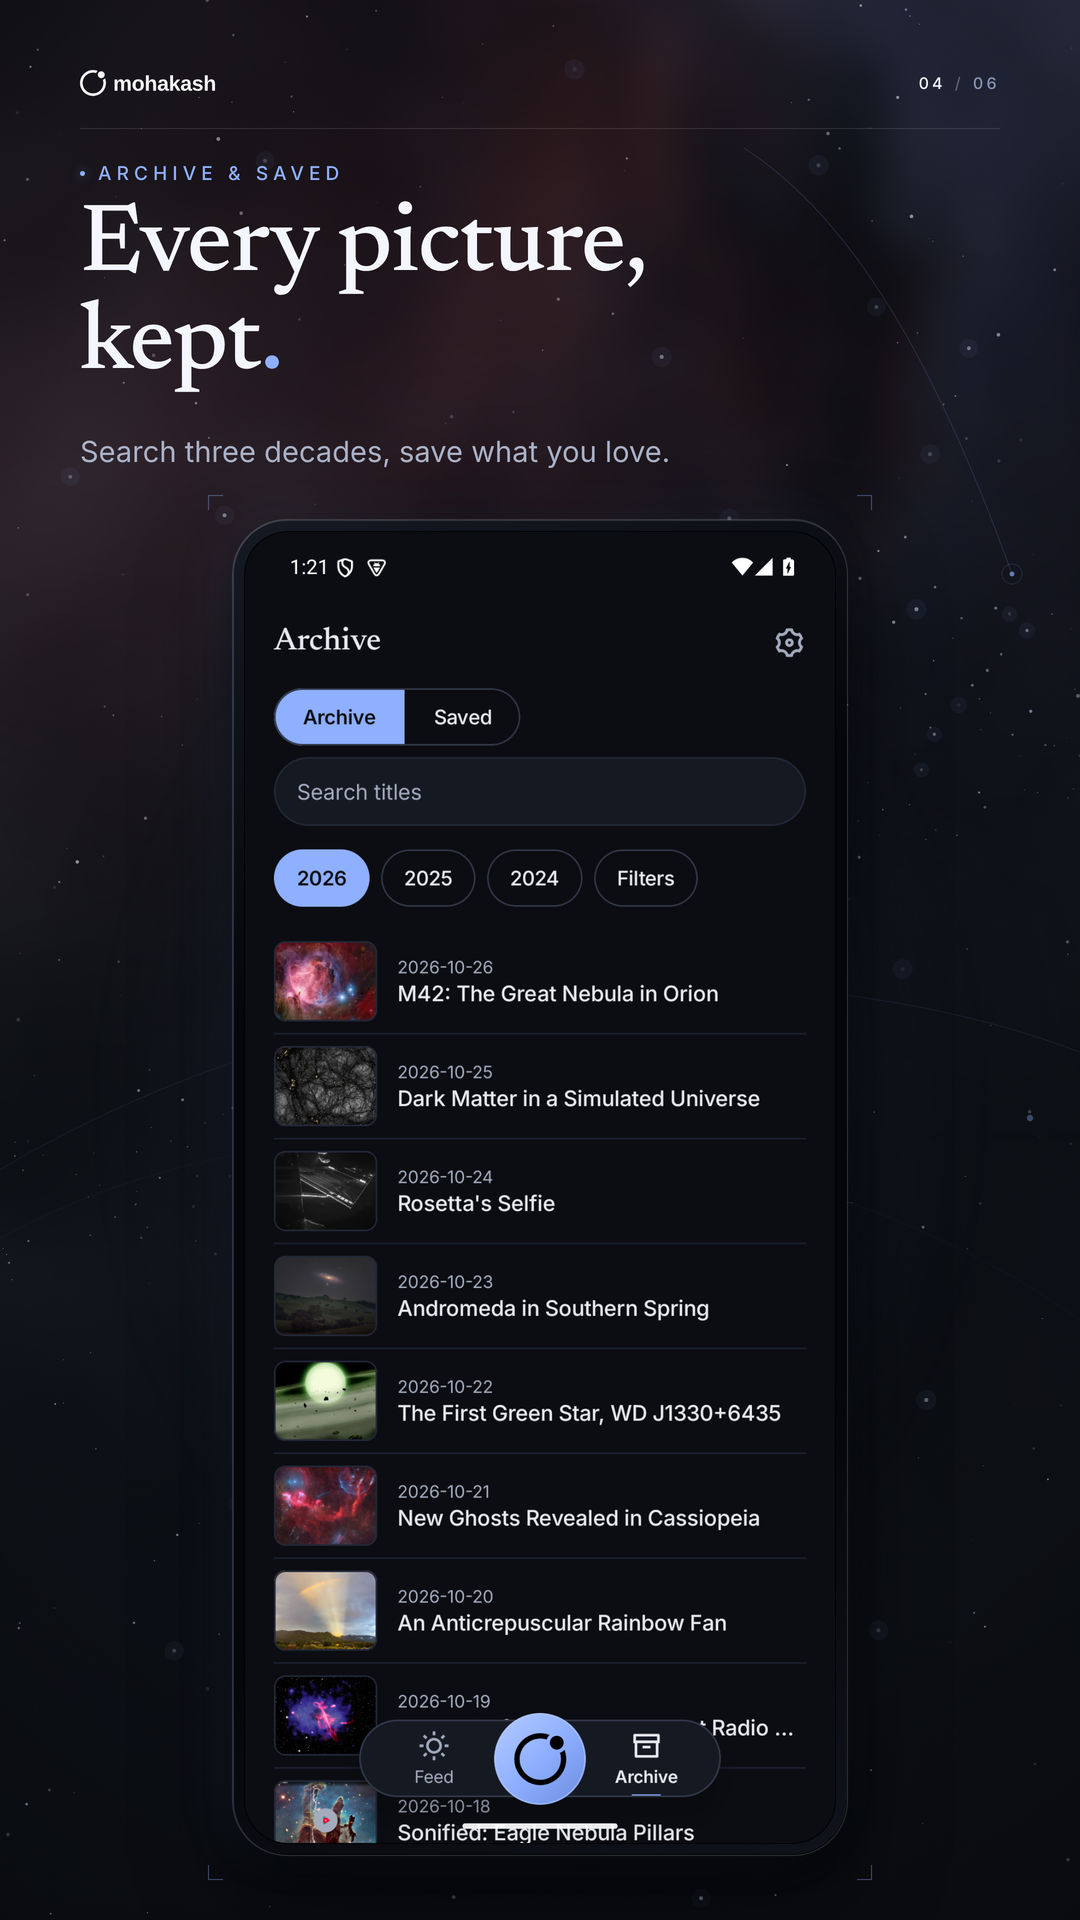
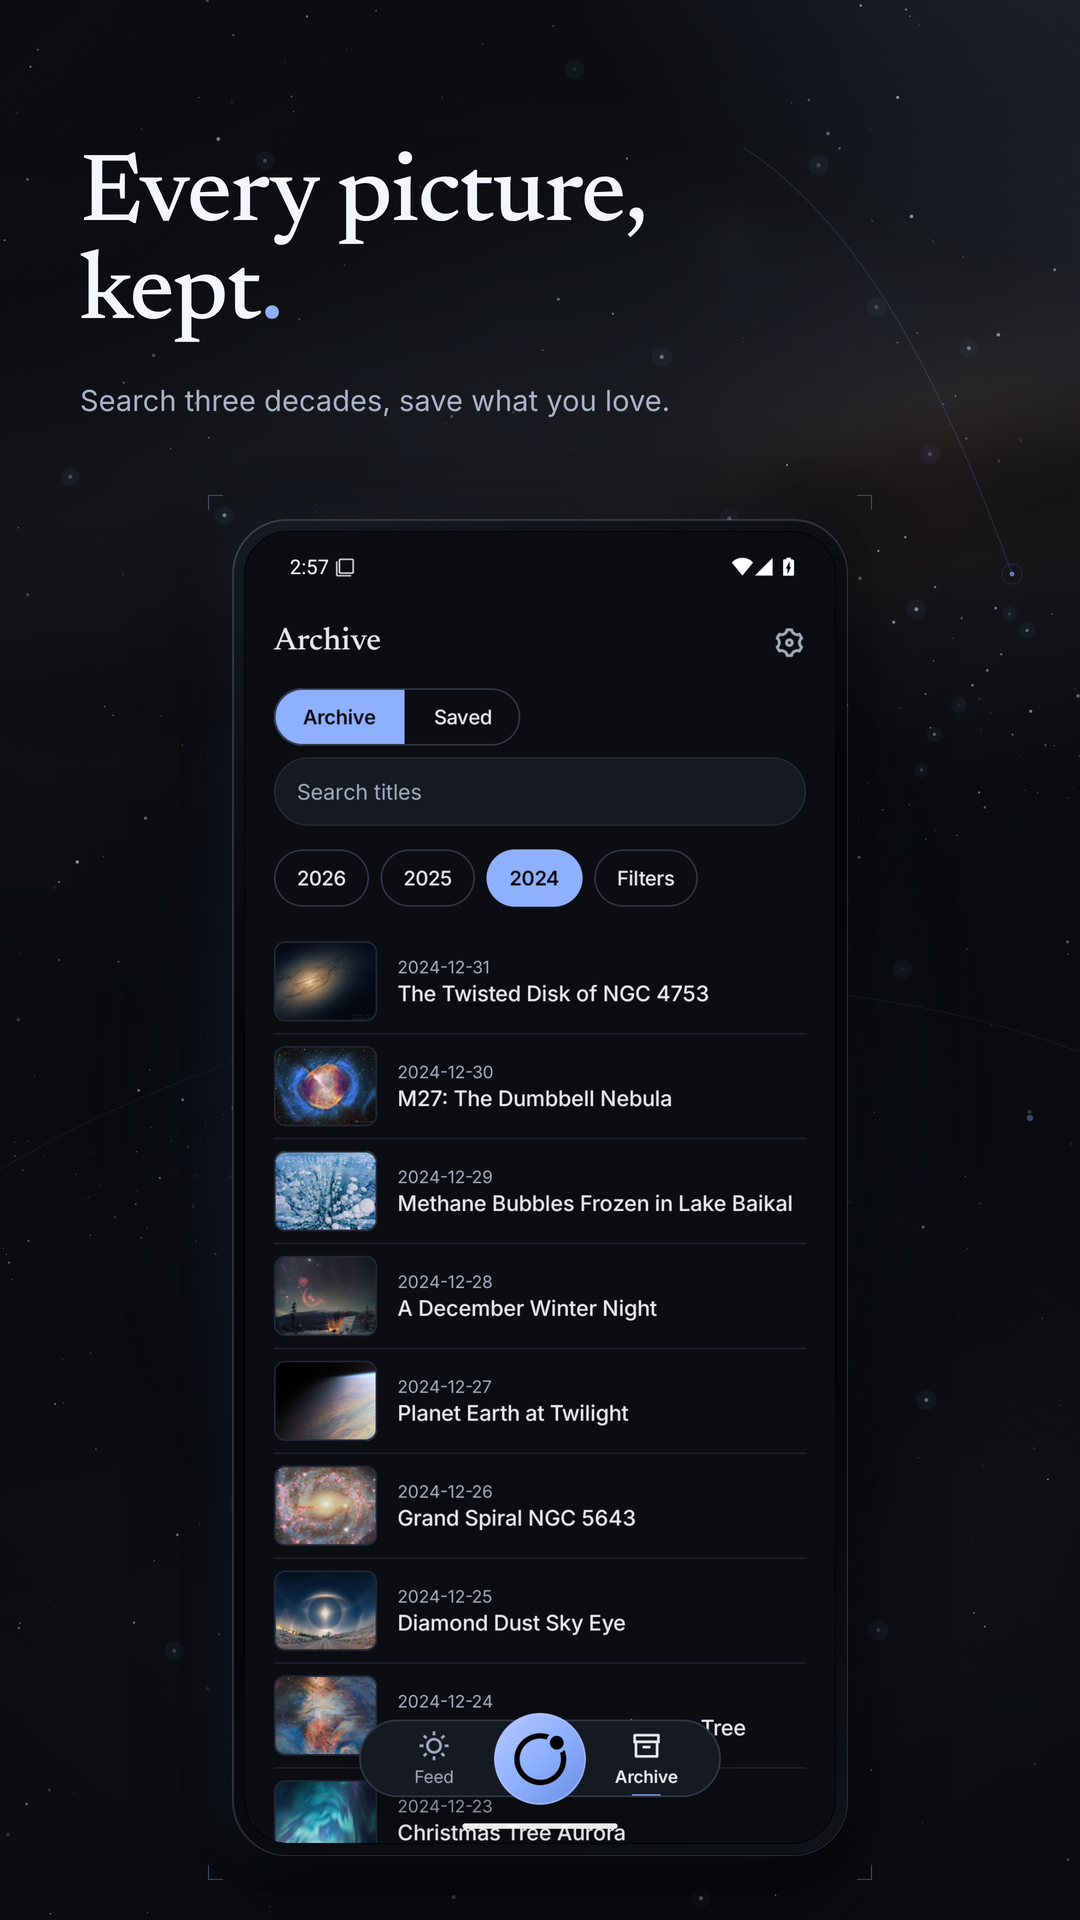
feat(store): refresh phone campaign with varied archive APODs

diff --git a/store-assets/README.md b/store-assets/README.md
@@ -9,14 +9,16 @@ and F-Droid consume:
 
 ## Campaign
 
-| # | Beat | Headline | Support |
-|---|------|----------|---------|
-| 01 | Daily feed | **The sky, every day.** | A new picture of the universe, each day. |
-| 02 | Live wallpaper | **Your wallpaper, alive.** | A genuine live wallpaper, updated with the day's picture. |
-| 03 | Random pick | **Let the universe choose.** | One tap opens a random picture from the archive. |
-| 04 | Archive & Saved | **Every picture, kept.** | Search three decades, save what you love. |
-| 05 | Full entry | **More than a pretty picture.** | Title, credit and explanation, on every entry. |
-| 06 | Languages | **In your language.** | The interface, in fourteen languages. |
+Campaign line: **“The sky, every day.”**
+
+| # | Beat | Headline | Support | Screen |
+|---|------|----------|---------|--------|
+| 01 | Daily feed | **The sky, every day.** | A new picture of the universe, each day. | *The Tail of the Hamburger Galaxy*, 8 May 2014 |
+| 02 | Live wallpaper | **Your wallpaper, alive.** | A live wallpaper that follows the day's picture. | first-run wallpaper screen, M42 preview |
+| 03 | Random pick | **Let the sky surprise you.** | One tap opens a random picture from the archive. | random picker over *Comet NEAT*, 6 Mar 2003 |
+| 04 | Archive | **Every picture, kept.** | Search three decades, save what you love. | Archive filtered to 2024 |
+| 05 | Full entry | **More than a pretty picture.** | The title, the credit, the whole explanation. | *Asperitas Clouds Over New Zealand*, 17 Aug 2025 |
+| 06 | Languages | **In your language.** | The interface, in fourteen languages. | Bengali UI on *Plato and the Lunar Alps*, 15 Jan 2026 |
 
 Feature graphic copy: **“The sky, on your home screen.”**
 Product line: “A new astronomy wallpaper every day.”
@@ -24,10 +26,11 @@ Colophon: “OPEN SOURCE · NO ADS”
 
 All claims are verifiable in the app: no account, no ads, open source, APOD
 metadata and images, 13 non-English UI locales plus English variants, live
-wallpaper, archive and saved list.
+wallpaper, archive and saved list. The live wallpaper is a still picture
+redrawn when the day changes—not an animated video.
 
-**Image rights:** APOD photographs remain under their publishers' terms; the
-M42 frame in the campaign carries its photographer credit inside the artwork.
+**Image rights:** APOD photographs remain under their publishers' terms; each
+campaign frame shows the individual photographer credit inside the real app UI.
 The artwork contains no NASA logo and implies no NASA endorsement. Confirm the
 specific photographer/APOD promotional-use terms before publishing the listing,
 or swap the hero frame for a public-domain APOD image and re-render.
@@ -39,6 +42,8 @@ or swap the hero frame for a public-domain APOD image and re-render.
 - Surfaces: `#151922`, borders `#323849`; accent Glow `#8FB0FF`.
 - Headline: Newsreader Medium (serif), Starlight `#F4F6FF`.
 - Kicker/support/UI: Inter Regular/Medium; muted `#A3ABBD`.
+- Campaign plates deliberately omit a separate wordmark/folio/kicker so the
+  real app screenshot is the interface; the app's own in-screen wordmark stays.
 - Device frames are intentionally understated; the app screenshot inside is a
   real 1080 × 2400 capture, uniformly scaled (never stretched).
 - Feature graphic keeps critical type well inside the central 80% safe area;
